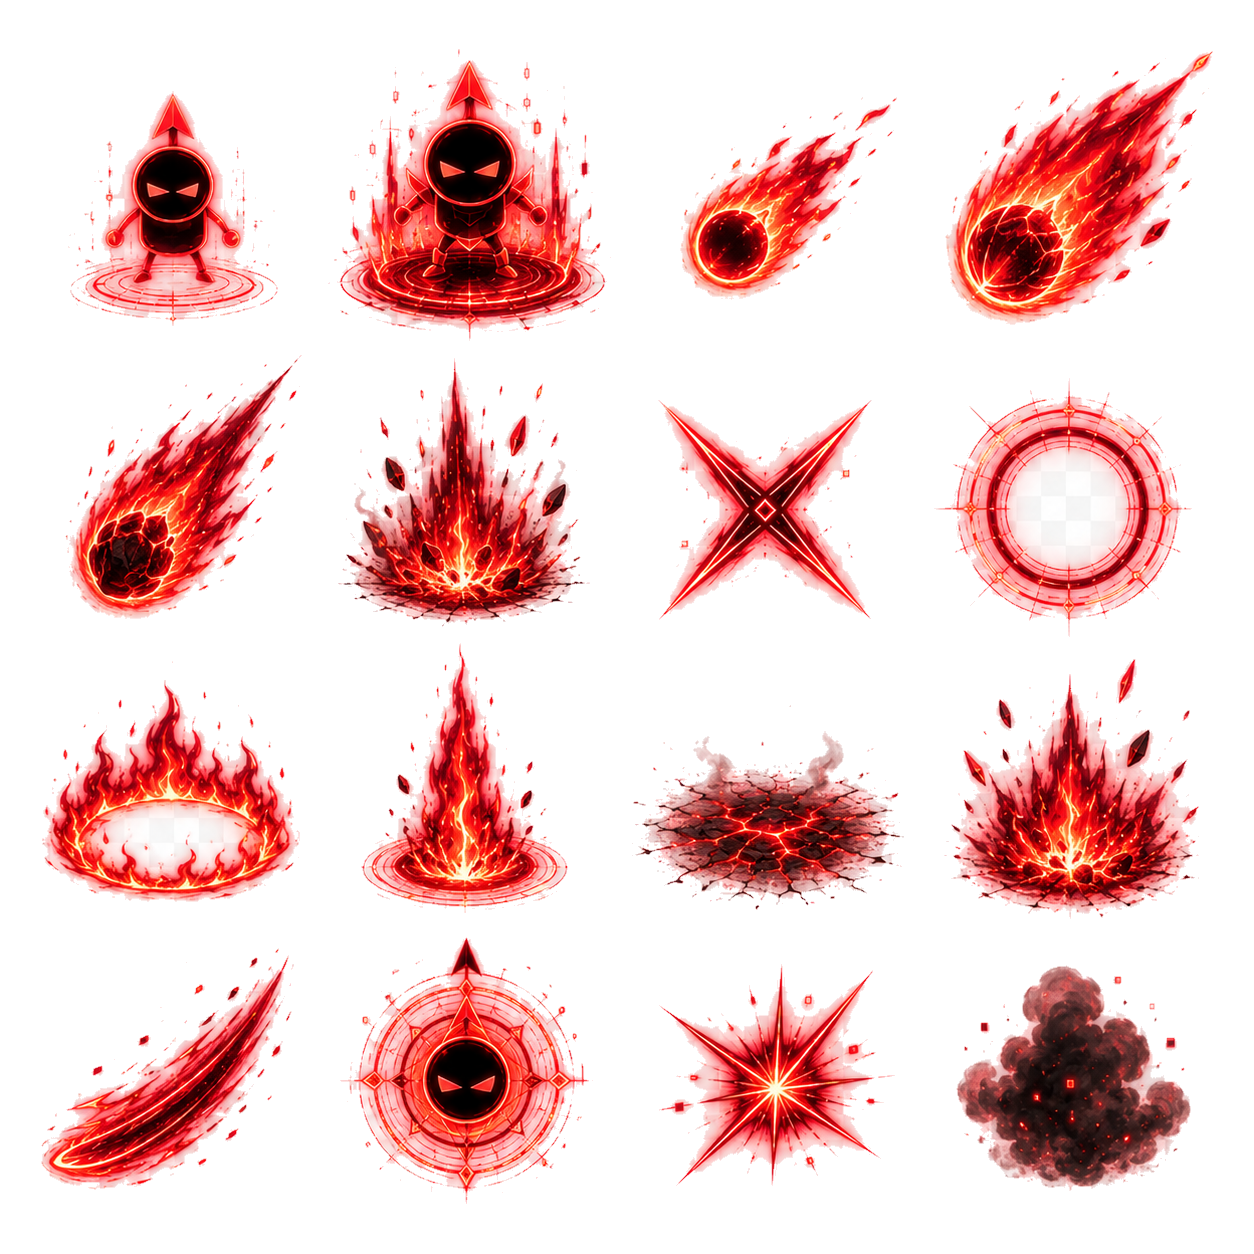
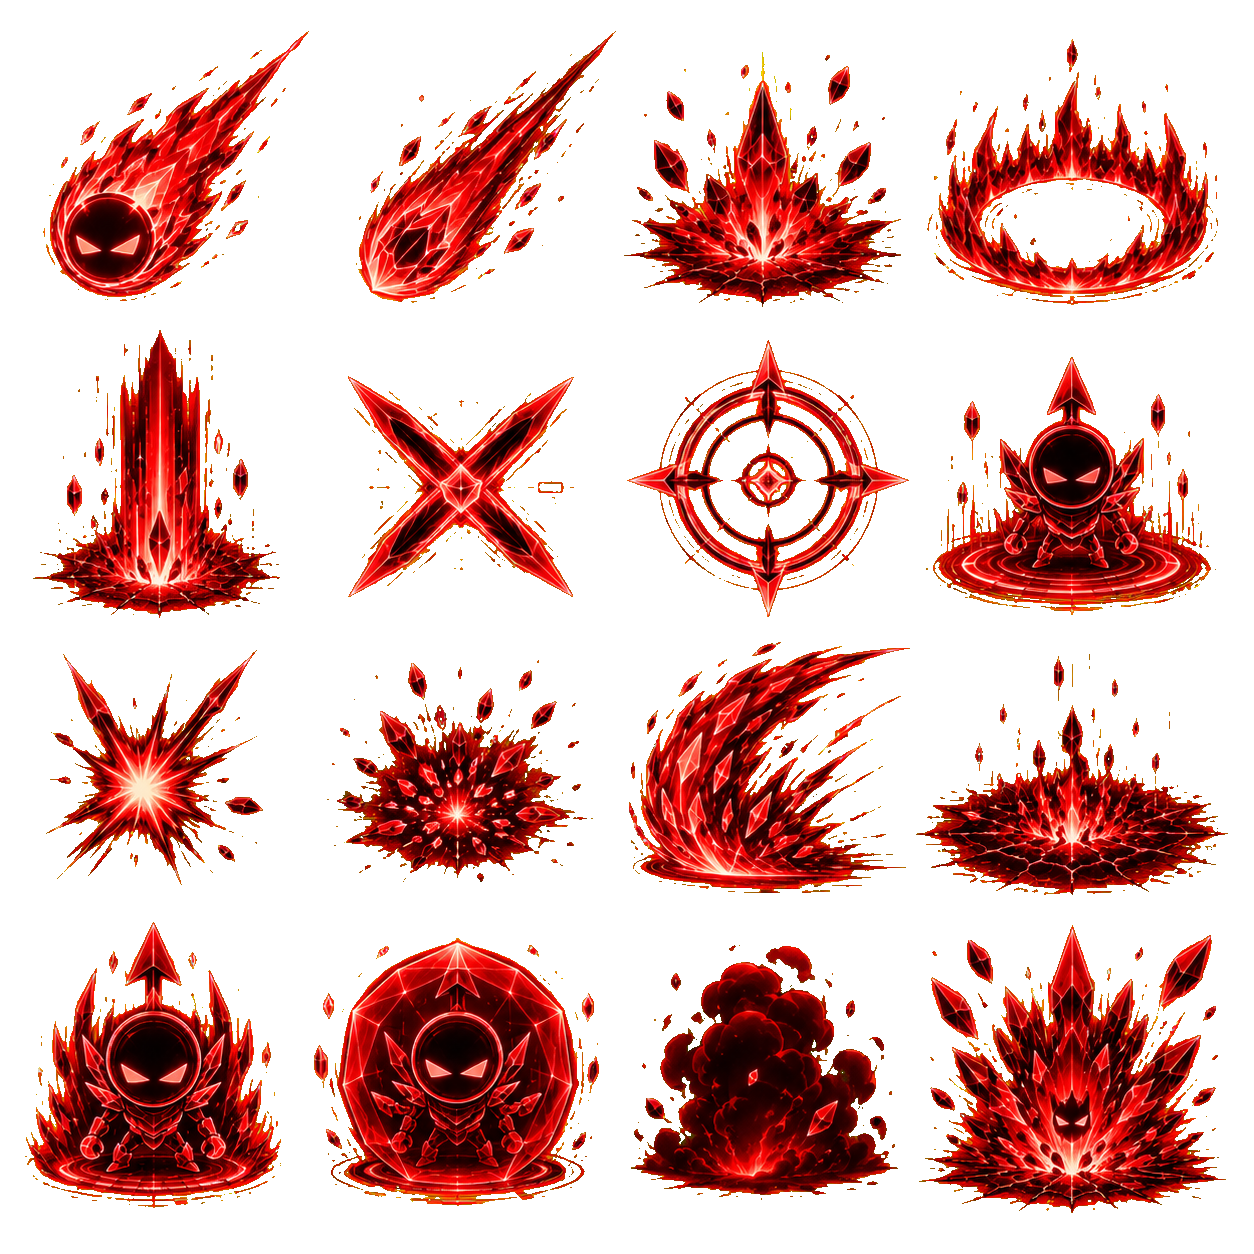
Boss-1 redesign: new sprites, 12 poses, 16 skills, platform, ultra meteor
- New boss spritesheet (4x3 grid): idle, move 4-dir, cast, hurt, enrage, dead, spawn
- New skills spritesheet (4x4 grid): fireball, meteor, flame ring, pillars, etc.
- Separate platform image rendered under boss
- Green screen removed from all assets
- All sprites recentered to prevent position jumps between poses
- Flame ring: boss hides behind shieldBarrier during cast
- Fireball: fixed direction (no spin), angular trajectory
- Meteor: falls angularly from boss position, smokePuff on impact
- Fire pillars: uses flamePillar sprite instead of code-drawn fire
- New ultra meteor attack: 10 sequential random meteors across arena
- Enrage mode at 30% HP
- Directional boss frames based on player position

diff --git a/src/boss.js b/src/boss.js
@@ -2,38 +2,41 @@
 // boss-final.png: 1254x1254, 3x3 grid (418px cells) — body poses
 // skills-final.png: 1254x1254, 4x4 grid (~313px cells) — FX
 
-const BC = 418; // boss cell size
-const SC = 313; // skill cell size (1254/4 ≈ 313)
+const BC = 418; // boss cell size (4x3 grid in 1672x1254)
+const SC = 313; // skill cell size (4x4 grid in 1254x1254)
 
 export const BOSS1_FRAMES = {
-  idleA:  { x: 0,     y: 0,    w: BC, h: BC },
-  idleB:  { x: BC,    y: 0,    w: BC, h: BC },
-  hoverA: { x: BC*2,  y: 0,    w: BC, h: BC },
-  hoverB: { x: 0,     y: BC,   w: BC, h: BC },
-  castA:  { x: BC,    y: BC,   w: BC, h: BC },
-  castB:  { x: BC*2,  y: BC,   w: BC, h: BC },
-  attack: { x: 0,     y: BC*2, w: BC, h: BC },
-  hurt:   { x: BC,    y: BC*2, w: BC, h: BC },
-  dead:   { x: BC*2,  y: BC*2, w: BC, h: BC },
+  idle:        { x: 0,      y: 0,    w: BC, h: BC },
+  idleAlt:     { x: BC,     y: 0,    w: BC, h: BC },
+  moveLeft:    { x: BC*2,   y: 0,    w: BC, h: BC },
+  moveRight:   { x: BC*3,   y: 0,    w: BC, h: BC },
+  moveUp:      { x: 0,      y: BC,   w: BC, h: BC },
+  moveDown:    { x: BC,     y: BC,   w: BC, h: BC },
+  castCharge:  { x: BC*2,   y: BC,   w: BC, h: BC },
+  castRelease: { x: BC*3,   y: BC,   w: BC, h: BC },
+  hurt:        { x: 0,      y: BC*2, w: BC, h: BC },
+  enrage:      { x: BC,     y: BC*2, w: BC, h: BC },
+  dead:        { x: BC*2,   y: BC*2, w: BC, h: BC },
+  spawnIntro:  { x: BC*3,   y: BC*2, w: BC, h: BC },
 };
 
 export const BOSS1_SKILLS = {
-  smallAura:    { x: 0,    y: 0,    w: SC, h: SC },
-  largeAura:    { x: SC,   y: 0,    w: SC, h: SC },
-  meteor:       { x: SC*2, y: 0,    w: SC, h: SC },
-  fireball:     { x: SC*3, y: 0,    w: SC, h: SC },
-  meteorDiag:   { x: 0,    y: SC,   w: SC, h: SC },
-  fireBurst:    { x: SC,   y: SC,   w: SC, h: SC },
-  xMarker:      { x: SC*2, y: SC,   w: SC, h: SC },
-  targetRing:   { x: SC*3, y: SC,   w: SC, h: SC },
-  flameRing:    { x: 0,    y: SC*2, w: SC, h: SC },
-  flamePillar:  { x: SC,   y: SC*2, w: SC, h: SC },
-  groundBurn:   { x: SC*2, y: SC*2, w: SC, h: SC },
-  emberBurst:   { x: SC*3, y: SC*2, w: SC, h: SC },
-  castSigil:    { x: 0,    y: SC*3, w: SC, h: SC },
-  castCharge:   { x: SC,   y: SC*3, w: SC, h: SC },
-  hitSpark:     { x: SC*2, y: SC*3, w: SC, h: SC },
-  smokePuff:    { x: SC*3, y: SC*3, w: SC, h: SC },
+  fireball:       { x: 0,    y: 0,    w: SC, h: SC },
+  meteor:         { x: SC,   y: 0,    w: SC, h: SC },
+  meteorImpact:   { x: SC*2, y: 0,    w: SC, h: SC },
+  flameRing:      { x: SC*3, y: 0,    w: SC, h: SC },
+  flamePillar:    { x: 0,    y: SC,   w: SC, h: SC },
+  xMarker:        { x: SC,   y: SC,   w: SC, h: SC },
+  targetRing:     { x: SC*2, y: SC,   w: SC, h: SC },
+  castSigil:      { x: SC*3, y: SC,   w: SC, h: SC },
+  hitSpark:       { x: 0,    y: SC*2, w: SC, h: SC },
+  emberBurst:     { x: SC,   y: SC*2, w: SC, h: SC },
+  fireWave:       { x: SC*2, y: SC*2, w: SC, h: SC },
+  groundBurn:     { x: SC*3, y: SC*2, w: SC, h: SC },
+  chargeAura:     { x: 0,    y: SC*3, w: SC, h: SC },
+  shieldBarrier:  { x: SC,   y: SC*3, w: SC, h: SC },
+  smokePuff:      { x: SC*2, y: SC*3, w: SC, h: SC },
+  deathExplosion: { x: SC*3, y: SC*3, w: SC, h: SC },
 };
 
 // ─── FireEchoBoss ──────────────────────────────────────────────
@@ -48,11 +51,12 @@ export class FireEchoBoss {
     this.alive = true;
     this.state = 'idle';
     this.stateTimer = 0;
-    this.currentFrame = BOSS1_FRAMES.idleA;
+    this.currentFrame = BOSS1_FRAMES.idle;
     this.currentAttack = null;
     this.attackCooldown = 0;
     this.lastAttack = -1;
     this.repeatCount = 0;
+    this.enraged = false;
     this.projectiles = [];
     this.effects = [];
     this.floatPhase = 0;
@@ -67,8 +71,9 @@ export class FireEchoBoss {
       { name: 'fireball', cooldown: 1.4 },
       { name: 'ring', cooldown: 3.5 },
       { name: 'pillars', cooldown: 4.2 },
+      { name: 'ultra_meteor', cooldown: 8.0 },
     ];
-    this.attackCooldowns = [0, 0, 0, 0];
+    this.attackCooldowns = [0, 0, 0, 0, 0];
     this.targetX = 0;
     this.targetY = 0;
   }
@@ -79,6 +84,10 @@ export class FireEchoBoss {
     this.castShake = 0.15;
     this.hurtFlash = 0.2;
     this.currentFrame = BOSS1_FRAMES.hurt;
+    if (!this.enraged && this.hp <= this.maxHp * 0.3) {
+      this.enraged = true;
+      this.currentFrame = BOSS1_FRAMES.enrage;
+    }
     if (this.hp <= 0) { this.hp = 0; this.alive = false; this.state = 'dead'; this.currentFrame = BOSS1_FRAMES.dead; }
   }
 
@@ -99,16 +108,27 @@ export class FireEchoBoss {
     for (let i = 0; i < 4; i++) if (this.attackCooldowns[i] > 0) this.attackCooldowns[i] -= dt;
     if (this.attackCooldown > 0) this.attackCooldown -= dt;
 
+    // Directional frame helper
+    const dx = playerX - this.x;
+    const dy = playerY - this.y;
+
     switch (this.state) {
       case 'idle':
         // Alternate idle poses smoothly
-        this.currentFrame = this.idleTimer % 1.4 < 0.7 ? BOSS1_FRAMES.idleA : BOSS1_FRAMES.idleB;
+        this.currentFrame = this.idleTimer % 1.4 < 0.7 ? BOSS1_FRAMES.idle : BOSS1_FRAMES.idleAlt;
+        if (this.enraged) this.currentFrame = BOSS1_FRAMES.enrage;
         this.stateTimer += dt;
         if (this.stateTimer > 0.8) { this.state = 'tracking'; this.stateTimer = 0; }
         break;
 
       case 'tracking':
-        this.currentFrame = this.idleTimer % 1 < 0.5 ? BOSS1_FRAMES.hoverA : BOSS1_FRAMES.hoverB;
+        // Use directional frames based on player position
+        if (Math.abs(dx) > Math.abs(dy)) {
+          this.currentFrame = dx < 0 ? BOSS1_FRAMES.moveLeft : BOSS1_FRAMES.moveRight;
+        } else {
+          this.currentFrame = dy < 0 ? BOSS1_FRAMES.moveUp : BOSS1_FRAMES.moveDown;
+        }
+        if (this.enraged) this.currentFrame = BOSS1_FRAMES.enrage;
         if (this.attackCooldown <= 0) {
           const idx = this.chooseAttack(playerX, playerY);
           if (idx >= 0) {
@@ -121,10 +141,10 @@ export class FireEchoBoss {
         break;
 
       case 'casting':
-        this.currentFrame = this.stateTimer % 0.3 < 0.15 ? BOSS1_FRAMES.castA : BOSS1_FRAMES.castB;
+        this.currentFrame = this.stateTimer % 0.3 < 0.15 ? BOSS1_FRAMES.castCharge : BOSS1_FRAMES.castRelease;
         this.stateTimer += dt;
         if (this.stateTimer > 0.5) {
-          this.currentFrame = BOSS1_FRAMES.attack;
+          this.currentFrame = BOSS1_FRAMES.castRelease;
           this.executeAttack(this.currentAttack);
           this.attackCooldowns[this.currentAttack] = this.attacks[this.currentAttack].cooldown;
           this.attackCooldown = 0.8;
@@ -136,7 +156,7 @@ export class FireEchoBoss {
         break;
 
       case 'cooldown':
-        this.currentFrame = BOSS1_FRAMES.idleA;
+        this.currentFrame = this.enraged ? BOSS1_FRAMES.enrage : BOSS1_FRAMES.idle;
         this.stateTimer += dt;
         if (this.stateTimer > 1.0) { this.state = 'tracking'; this.stateTimer = 0; }
         break;
@@ -165,23 +185,24 @@ export class FireEchoBoss {
   chooseAttack(px, py) {
     const dist = Math.sqrt((px - this.x) ** 2 + (py - this.y) ** 2);
     const avail = [];
-    for (let i = 0; i < 4; i++) {
+    for (let i = 0; i < 5; i++) {
       if (this.attackCooldowns[i] > 0) continue;
       if (i === this.lastAttack && this.repeatCount >= 2) continue;
       let w = 1;
       if (dist < 120 && i === 2) w = 3;
       else if (dist > 260 && i <= 1) w = 2;
+      else if (i === 4) w = 1; // ultra meteor — same base weight
       for (let j = 0; j < w; j++) avail.push(i);
     }
     return avail.length === 0 ? -1 : avail[Math.floor(Math.random() * avail.length)];
   }
 
   executeAttack(idx) {
-    [() => this.castMeteorMark(), () => this.castFireball(), () => this.castFlameRing(), () => this.castFirePillars()][idx]();
+    [() => this.castMeteorMark(), () => this.castFireball(), () => this.castFlameRing(), () => this.castFirePillars(), () => this.castUltraMeteor()][idx]();
   }
 
   castMeteorMark() {
-    this.effects.push({ type: 'meteor_mark', x: this.targetX, y: this.targetY, radius: 48, damage: 20, telegraph: 0.9, timer: 0 });
+    this.effects.push({ type: 'meteor_mark', x: this.targetX, y: this.targetY, radius: 48, damage: 70, telegraph: 0.9, timer: 0, bossX: this.x, bossY: this.y });
   }
 
   castFireball() {
@@ -200,6 +221,17 @@ export class FireEchoBoss {
         if (!this.alive) return;
         this.effects.push({ type: 'pillar_mark', x: this.targetX + (Math.random() - 0.5) * 20, y: this.targetY + (Math.random() - 0.5) * 20, radius: 36, damage: 12, telegraph: 0.5, timer: 0 });
       }, i * 350);
+    }
+  }
+
+  castUltraMeteor() {
+    for (let i = 0; i < 10; i++) {
+      setTimeout(() => {
+        if (!this.alive) return;
+        const rx = 40 + Math.random() * 520; // random across arena (600 wide)
+        const ry = 40 + Math.random() * 420; // random across arena (500 tall)
+        this.effects.push({ type: 'meteor_mark', x: rx, y: ry, radius: 52, damage: 35, telegraph: 0.4, timer: 0, bossX: this.x, bossY: this.y });
+      }, i * 200);
     }
   }
 

diff --git a/src/boss-stage.js b/src/boss-stage.js
@@ -14,6 +14,7 @@ export class BossStage {
     this.scale = 1; this.ox = 0; this.oy = 0;
     this.bossImg = new Image(); this.bossImg.src = 'assets/boss-final.png';
     this.skillsImg = new Image(); this.skillsImg.src = 'assets/skills-final.png';
+    this.platformImg = new Image(); this.platformImg.src = 'assets/boss1-platform.png';
     this.player = { x: AW / 2, y: AH - 80, radius: PR, hp: 100, maxHp: 100, speed: PS, alive: true, acd: 0, inv: 0 };
     this.boss = new FireEchoBoss(AW / 2, 100);
     this.state = 'loading'; this.time = 0; this.dmgFlash = 0; this.vt = 0;
@@ -156,7 +157,7 @@ export class BossStage {
     // Loading: wait for music + assets
     if (this.state === 'loading') {
       this.loadDots += dt;
-      if (this.musicReady && this.bossImg.complete && this.skillsImg.complete) {
+      if (this.musicReady && this.bossImg.complete && this.skillsImg.complete && this.platformImg.complete) {
         this.state = 'waitTap'; // wait for user gesture to play music
       }
       return;
@@ -228,9 +229,10 @@ export class BossStage {
         const bx = (w - barW) / 2, by = h / 2 + 28 * dpr;
         ctx.fillStyle = '#1A0808'; ctx.fillRect(bx, by, barW, barH);
         let progress = 0;
-        if (this.bossImg.complete) progress += 0.33;
-        if (this.skillsImg.complete) progress += 0.33;
-        if (this.musicReady) progress += 0.34;
+        if (this.bossImg.complete) progress += 0.25;
+        if (this.skillsImg.complete) progress += 0.25;
+        if (this.platformImg.complete) progress += 0.25;
+        if (this.musicReady) progress += 0.25;
         ctx.fillStyle = '#FF4020'; ctx.fillRect(bx, by, barW * progress, barH);
       } else {
         // waitTap — ready, waiting for user gesture
@@ -266,19 +268,40 @@ export class BossStage {
     const bx = this.sx(b.x), by = this.sy(b.y + b.floatOffset);
     const sz = this.ss(115);
     const shk = b.castShake > 0 ? (Math.random() - 0.5) * 3 * (b.castShake / 0.3) : 0;
+    // Check if ring effect is still active
+    const ringActive = b.effects.some(e => e.type === 'ring');
+    const isRingMode = (b.state === 'casting' && b.currentAttack === 2) || (b.state === 'cooldown' && b.lastAttack === 2 && ringActive);
 
-    // Layer 1: Code-driven fire aura (NO sprite aura — those have boss body baked in)
+    if (isRingMode) {
+      // Flame ring — ONLY shieldBarrier, offset to match boss position
+      const cp = 0.4 + Math.sin(this.time * 16) * 0.25;
+      const offX = this.ss(8);  // shift right to align with boss center
+      const offY = this.ss(25);  // shift down to align with boss center
+      this.drawFx(ctx, BOSS1_SKILLS.shieldBarrier, bx + offX, by + offY, sz * 1.1, cp * 0.8);
+      return;
+    }
+
+    // Layer 0: Platform image under boss
+    if (this.platformImg.complete) {
+      const pw = this.ss(100), ph = this.ss(48);
+      const pa = ctx.globalAlpha;
+      ctx.globalAlpha = 0.8;
+      ctx.drawImage(this.platformImg, 0, 0, 418, 200, bx - pw/2, by + sz * 0.35, pw, ph);
+      ctx.globalAlpha = pa;
+    }
+
+    // Layer 1: Code-driven fire aura
     this.drawFireAura(ctx, bx, by, sz * 0.6, b.auraAlpha);
 
     // Layer 2: Subtle ember particles around boss
     this.drawFireParticles(ctx, bx, by, sz * 0.5, 6, this.time, b.auraAlpha * 0.7);
 
-    // Layer 3: Cast effects — castSigil + castCharge are clean, use those
+    // Layer 3: Cast effects for non-ring attacks
     if (b.state === 'casting') {
       const cp = 0.4 + Math.sin(b.stateTimer * 16) * 0.25;
       this.drawFireAura(ctx, bx + shk, by + shk, sz * 0.9, cp * 0.6);
       this.drawFxRot(ctx, BOSS1_SKILLS.castSigil, bx, by + sz * 0.25, sz * 0.6, b.stateTimer * 3, cp * 0.5);
-      this.drawFx(ctx, BOSS1_SKILLS.castCharge, bx + shk, by + shk, sz * 0.5, cp * 0.4);
+      this.drawFx(ctx, BOSS1_SKILLS.chargeAura, bx + shk, by + shk, sz * 0.9, cp * 0.6);
       this.drawFireParticles(ctx, bx, by, sz * 0.7, 10, this.time * 2, cp);
     }
 
@@ -317,24 +340,45 @@ export class BossStage {
 
       } else if (e.type === 'meteor_explode') {
         const r = this.ss(e.radius), a = 1 - e.timer / e.duration;
-        // Meteor descending — CLEAN cell
-        if (e.timer < 0.15) {
-          const meteorSize = r * 1.5;
-          this.drawFx(ctx, BOSS1_SKILLS.meteor, ex, ey - r * (1 - e.timer * 6), meteorSize, a);
+        // Meteor descending angularly from boss position
+        if (e.timer < 0.2) {
+          const meteorSize = r * 1.8;
+          const t = e.timer / 0.2; // 0 to 1 during descent
+          const startX = e.bossX != null ? this.sx(e.bossX) : ex;
+          const startY = e.bossY != null ? this.sy(e.bossY) - this.ss(60) : ey - r * 3;
+          const mx = startX + (ex - startX) * t;
+          const my = startY + (ey - startY) * t;
+          const fallAngle = Math.atan2(ey - startY, ex - startX) - Math.atan2(1, -1);
+          this.drawFxRot(ctx, BOSS1_SKILLS.meteor, mx, my, meteorSize * (1 - t * 0.3), fallAngle, 1 - t * 0.3);
         }
-        // Impact — CODE-DRIVEN fire burst (replaces dirty fireBurst cell)
-        this.drawFireBurst(ctx, ex, ey, r * (1 + e.timer * 2.5), a * 0.8);
-        this.drawEmberScatter(ctx, ex, ey, r, 6, e.timer * 2, a * 0.5);
-        // Faint ground mark using code
-        this.drawFireAura(ctx, ex, ey, r * 0.8, a * 0.2);
+        // Impact — smokePuff explosion
+        if (e.timer >= 0.15) {
+          const impactT = (e.timer - 0.15) / (e.duration - 0.15);
+          const impactA = 1 - impactT;
+          this.drawFx(ctx, BOSS1_SKILLS.smokePuff, ex, ey, r * (2 + impactT * 1.5), impactA * 0.8);
+          this.drawEmberScatter(ctx, ex, ey, r, 6, impactT, impactA * 0.5);
+        }
 
       } else if (e.type === 'ring') {
         const r = this.ss(e.currentRadius), a = 1 - e.timer / e.duration;
-        // CLEAN: flameRing cell is good
-        this.drawFx(ctx, BOSS1_SKILLS.flameRing, ex, ey, r * 2.2, a * 0.55);
-        // Crisp ring stroke
-        ctx.strokeStyle = `rgba(255,55,12,${a * 0.4})`; ctx.lineWidth = this.ss(e.ringThickness * 0.25);
+        // Fire ring expanding outward — code-driven, no center circle
+        this.drawFireBurst(ctx, ex, ey, r * 0.3, a * 0.15); // subtle origin glow only
+        // Crisp expanding fire ring
+        ctx.strokeStyle = `rgba(255,55,12,${a * 0.6})`; ctx.lineWidth = this.ss(e.ringThickness * 0.4);
+        ctx.shadowColor = `rgba(255,40,10,${a * 0.5})`; ctx.shadowBlur = this.ss(8);
         ctx.beginPath(); ctx.arc(ex, ey, r, 0, Math.PI * 2); ctx.stroke();
+        // Outer glow ring
+        ctx.strokeStyle = `rgba(255,100,30,${a * 0.25})`; ctx.lineWidth = this.ss(e.ringThickness * 0.15);
+        ctx.beginPath(); ctx.arc(ex, ey, r * 1.1, 0, Math.PI * 2); ctx.stroke();
+        ctx.shadowBlur = 0;
+        // Ember particles along the ring
+        for (let i = 0; i < 8; i++) {
+          const ang = (i / 8) * Math.PI * 2 + e.timer * 4;
+          const px = ex + Math.cos(ang) * r;
+          const py = ey + Math.sin(ang) * r;
+          ctx.fillStyle = `rgba(255,${80 + i * 15},15,${a * 0.7})`;
+          ctx.beginPath(); ctx.arc(px, py, this.ss(3), 0, Math.PI * 2); ctx.fill();
+        }
 
       } else if (e.type === 'pillar_mark') {
         const r = this.ss(e.radius), pulse = Math.sin(e.timer * 18) * 0.3 + 0.7;
@@ -346,20 +390,23 @@ export class BossStage {
 
       } else if (e.type === 'pillar_fire') {
         const r = this.ss(e.radius), a = 1 - e.timer / e.duration;
-        // CODE-DRIVEN flame pillar (replaces dirty flamePillar cell with baked base)
-        this.drawFlamePillarCode(ctx, ex, ey, r * 0.8, this.ss(50) * a, a * 0.9);
+        const pillarSize = r * 3;
+        this.drawFx(ctx, BOSS1_SKILLS.flamePillar, ex, ey - pillarSize * 0.25, pillarSize, a * 0.85);
         this.drawEmberScatter(ctx, ex, ey - this.ss(15), r * 0.4, 4, e.timer, a * 0.4);
       }
     }
   }
 
   renderProjectiles(ctx) {
+    const SPRITE_BASE = Math.atan2(1, -1); // sprite faces lower-left (~2.36 rad)
     for (const p of this.boss.projectiles) {
       const px = this.sx(p.x), py = this.sy(p.y), sz = this.ss(p.radius * 3);
-      const angle = (p.age || 0) * 6;
-      const pulse = 0.85 + Math.sin((p.age || 0) * 12) * 0.15;
-      // CLEAN: fireball cell is a clean projectile
-      this.drawFxRot(ctx, BOSS1_SKILLS.fireball, px, py, sz * pulse, angle, 0.85);
+      const travelAngle = Math.atan2(p.vy, p.vx);
+      const rotation = travelAngle - SPRITE_BASE;
+      const pulse = 1;
+
+      this.drawFxRot(ctx, BOSS1_SKILLS.fireball, px, py, sz * pulse, rotation, 0.85);
+
       // Code-driven glow trail
       ctx.fillStyle = `rgba(255,60,15,0.15)`;
       ctx.beginPath(); ctx.arc(px, py, this.ss(p.radius * 0.6), 0, Math.PI * 2); ctx.fill();
